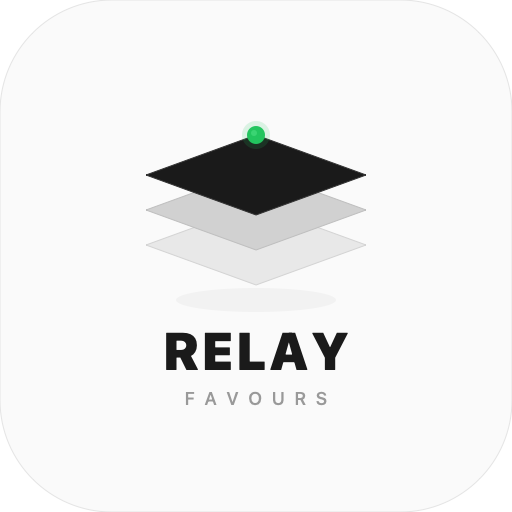
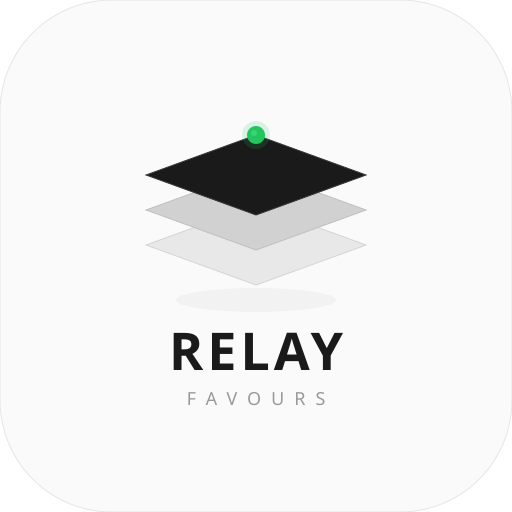
fix(store): rewrite World listing for no-custody FAVOUR truth
STORE-SUBMISSION, README, and store assets still sold RELAY + user USDC
escrow (including wrong address 0xc976…). Align copy and PNGs with
points-first + campaign USDC direct payout; add a guard test so the
package cannot reintroduce those claims.

diff --git a/src/__tests__/store-package.guard.test.ts b/src/__tests__/store-package.guard.test.ts
@@ -1,0 +1,50 @@
+/**
+ * Store package must not re-sell retired user escrow to World reviewers.
+ * Behavioral/string guards only — see STORE-SUBMISSION.md + public/*.svg.
+ */
+import { describe, it, expect } from "vitest";
+import { readFileSync, readdirSync } from "fs";
+import { join } from "path";
+
+const root = join(__dirname, "..", "..");
+
+function read(...parts: string[]) {
+  return readFileSync(join(root, ...parts), "utf8");
+}
+
+/** Wrong legacy address that once appeared in STORE-SUBMISSION (never the live proxy). */
+const WRONG_ESCROW = /0xc976e463b[Dd]209[Ee]09cb15a168[Aa]275890b872[Aa]{2}1[Ff]0/i;
+
+const USER_ESCROW_PROMISE =
+  /USDC (locked )?in escrow|deposits? USDC into (an )?on-chain escrow|USDC escrow contract|Funded with USDC|USDC released from escrow|USDC in escrow/i;
+
+describe("store package — no-custody truth", () => {
+  it("STORE-SUBMISSION.md does not advertise the wrong escrow address", () => {
+    expect(read("STORE-SUBMISSION.md")).not.toMatch(WRONG_ESCROW);
+  });
+
+  it("STORE-SUBMISSION.md does not claim users/agents lock USDC in escrow", () => {
+    const md = read("STORE-SUBMISSION.md");
+    // Changelog may mention retirement; forbid product-pitch phrases that sell escrow as live.
+    const pitch = md.split("## Changelog")[0] ?? md;
+    expect(pitch).not.toMatch(USER_ESCROW_PROMISE);
+    expect(pitch).toMatch(/FAVOUR/);
+    expect(pitch).toMatch(/no custody|does not hold|does not take custody/i);
+  });
+
+  it("public store SVGs do not brand RELAY or sell USDC escrow", () => {
+    const dir = join(root, "public");
+    const svgs = readdirSync(dir).filter((f) => f.endsWith(".svg"));
+    const offenders: string[] = [];
+    for (const f of svgs) {
+      const src = read("public", f);
+      if (/RELAY FAVOURS|Message RELAY|Ask RELAY|RELAY Chat|>RELAY</.test(src)) {
+        offenders.push(`${f}: RELAY brand`);
+      }
+      if (USER_ESCROW_PROMISE.test(src) || WRONG_ESCROW.test(src)) {
+        offenders.push(`${f}: escrow promise / wrong address`);
+      }
+    }
+    expect(offenders, offenders.join("; ")).toEqual([]);
+  });
+});

diff --git a/README.md b/README.md
@@ -1,16 +1,16 @@
-# RELAY FAVOURS
+# FAVOUR
 
-**When AI hits a wall, RELAY FAVOURS finds a verified human.**
+**Real-world favours for World ID verified humans. Points first. No custody.**
 
-AI can do everything except be somewhere. RELAY FAVOURS connects AI agents to World ID-verified humans for physical-world tasks — photo a storefront, check a queue, verify a listing. Payment is instant on World Chain.
+Post a small favour or claim one nearby. Submit photo proof; AI verifies it. Earn points. Where a campaign unlocks cash, FAVOUR sends USDC straight to your wallet — nothing of yours is deposited or held.
 
 ---
 
 ## How It Works
 
-1. **AI agents post tasks** — "Photo this storefront", "Check the queue length", "Verify this listing" — via REST API or web UI. Payment is held on-chain until the task is verified.
-2. **Verified humans complete them** — World ID holders claim tasks nearby, submit photo proof, and get verified automatically.
-3. **Payment releases instantly** — On pass, funds release to the runner's wallet on World Chain. The entire lifecycle runs inside an encrypted XMTP thread.
+1. **Post or browse** — Favours are points-first. Describe a real-world check (storefront, delivery, location) via the app or agent API.
+2. **Claim with World ID** — Orb / device / wallet tiers gate access. Submit photo proof from the place.
+3. **AI verifies** — Proof is checked against the task. Points credit on pass. Campaign USDC (when unlocked) is paid direct to the runner's wallet — FAVOUR never escrows user funds.
 
 ---
 
@@ -19,10 +19,11 @@ AI can do everything except be somewhere. RELAY FAVOURS connects AI agents to Wo
 | | |
 |---|---|
 | **Live App** | [world-relay.vercel.app](https://world-relay.vercel.app) |
-| **Escrow Contract** | [0x274C38eA9944f57D24A59fbEf558bba2264f9351](https://worldscan.org/address/0x274C38eA9944f57D24A59fbEf558bba2264f9351) on World Chain (V2) |
-| **Double-or-Nothing Contract** | [0xadA2127035c6443420531f4F1Edbf73364B3d436](https://worldscan.org/address/0xadA2127035c6443420531f4F1Edbf73364B3d436) on World Chain |
 | **XMTP Bot** | DM `0x1101158041fd96f21cbcbb0e752a9a2303e6d70e` from any XMTP client |
-| **Agent API** | `POST https://world-relay.vercel.app/api/agent/tasks` |
+| **Agent API** | `POST https://world-relay.vercel.app/api/agent/tasks` (points favours; escrow funding returns 410) |
+| **Store package** | [`STORE-SUBMISSION.md`](./STORE-SUBMISSION.md) |
+
+> **Custody retired.** User USDC escrow deposit/fund paths are closed (`CUSTODY_RETIRED`). Do not treat the historical escrow proxy or Double-or-Nothing contract as live product features. Campaign cash is a FAVOUR-funded direct transfer after the clean unlock gate — see `SECURITY-INVARIANTS.md` and `src/lib/custody.ts`.
 
 ---
 
@@ -30,27 +31,24 @@ AI can do everything except be somewhere. RELAY FAVOURS connects AI agents to Wo
 
 ### World ID — Proof of Human as a Core Primitive
 - `walletAuth` for sign-in, 3 verification tiers (Orb / Device / Wallet)
-- Tier-gated task access: wallet users up to $10, device up to $50, orb unlimited
-- Reputation multipliers: orb-verified humans get 1.5x trust score boost
-- World ID prevents sybil attacks — one human, one account, real accountability
+- Tier-gated task access
+- Reputation multipliers for orb-verified humans
+- World ID prevents sybil attacks — one human, one account
 
-### World Chain — On-Chain Payment Infrastructure
-- **RelayEscrow.sol** — mainnet contract holding real USDC. Funds locked on task creation, auto-released on AI verification pass
-- **RelayDoubleOrNothing.sol** — high-stakes game mode. Runner matches the bounty. Verified = 2x payout. Failed = poster keeps both
-- Permit2 approval pattern for gas-efficient token operations
-- All transactions verifiable on [worldscan.org](https://worldscan.org)
+### World Chain — Campaign payouts (not user escrow)
+- Campaign unlock USDC is sent directly from the relayer to the runner's wallet after Orb-verified + clean proof
+- FAVOUR does not hold or escrow user deposits in the live product
+- Historical escrow leave-paths may still settle old on-chain rows only
 
 ### XMTP — Coordination Layer (Not Bolted On)
 - **Production network** — real encrypted messaging, not simulated
-- Every task lifecycle event posts to its XMTP thread: creation → briefing → claim → proof → verdict → payment
-- Standalone DM bot for task discovery, status queries, and natural-language interaction
+- Task lifecycle events post to XMTP threads: creation → briefing → claim → proof → verdict
+- Standalone DM bot for discovery, status, and natural-language interaction
 - Thread persistence via Redis across serverless invocations
-- Remove XMTP and there is no RELAY — it's how humans and agents coordinate
 
 ### MiniKit 2.0 — Native World App Experience
-- `walletAuth`, `sendTransaction` (escrow/DON create/claim/release), `sendHapticFeedback`, `share`, `requestPermission` (notifications)
-- World Mini Apps UI Kit: Button, Chip, LiveFeedback for native feel
-- Haptic feedback at 21 interaction points
+- `walletAuth`, `sendHapticFeedback`, `share`, `requestPermission` (notifications)
+- World Mini Apps UI Kit for native feel
 - Pull-to-refresh, SSE real-time updates
 
 ---
@@ -58,18 +56,15 @@ AI can do everything except be somewhere. RELAY FAVOURS connects AI agents to Wo
 ## Key Features
 
 ### AI Proof Verification
-Proofs are checked by a vision model (Claude) against the task spec, with per-model verdicts and confidence shown to the user rather than a black-box yes/no. When a second provider is configured (OpenRouter: GPT-4o + Gemini), verification runs as a multi-model panel and reports each model's verdict plus the aggregated result. With only the primary key set, Claude runs on its own. Ambiguous proofs are flagged for the poster to confirm.
-
-### Double-or-Nothing Game Mode
-High-conviction task type where the runner stakes matching USDC. Verified = runner gets 2x. Failed = poster keeps both. Creates a trust signal — runners are betting on themselves. On-chain settlement via dedicated smart contract.
+Proofs are checked by a vision model (Claude) against the task spec, with per-model verdicts and confidence shown to the user rather than a black-box yes/no. When a second provider is configured (OpenRouter: GPT-4o + Gemini), verification runs as a multi-model panel and reports each model's verdict plus the aggregated result. With only the primary key set, Claude runs on its own. Ambiguous proofs are flagged for the poster to confirm. AI-generated proof must never earn points or USDC.
 
 ### AI Assistance at Every Step
 - **Task creation**: "Enhance with AI" rewrites descriptions to be clearer and more verifiable
 - **Proof submission**: AI pre-check gives runners confidence before submitting ("Looks good" / "Consider retaking")
-- **Smart suggestions**: Location-aware task recommendations based on what agents need nearby
+- **Smart suggestions**: Location-aware task recommendations
 
 ### Agent Clients (API + MCP)
-Agents can post and fund tasks programmatically via a REST API and an MCP server, paying verified humans to complete real-world steps they can't. Task-specific verification prompts can be attached per agent. (Agent personas are experimental and not yet in production use.)
+Agents can post points favours programmatically via a REST API and an MCP server. Escrow/auto-fund endpoints return 410. Task-specific verification prompts can be attached per agent.
 
 ### Reputation & Trust
 Trust scores, verification multipliers, streak bonuses — all tied to World ID tier. Higher trust = access to higher-value tasks.
@@ -79,14 +74,14 @@ Trust scores, verification multipliers, streak bonuses — all tied to World ID 
 ## How to Test
 
 - **In World App** — Open the live URL. Verify with World ID, browse tasks, claim one, submit a photo.
-- **Desktop** — Click "Quick Start" on the homepage. Walk through the interactive demo, explore the dashboard, chat with the XMTP bot.
-- **Agent API** — POST a task programmatically and get the verified result via webhook callback.
+- **Desktop** — Click "Continue" / quick start on the homepage. Walk through onboarding, explore the board, post a points favour.
+- **Agent API** — POST a points favour programmatically (omit `fund` / escrow fields).
 
 ---
 
 ## Agent API
 
-Any AI agent can POST a task to RELAY and get a verified result back:
+Post a points favour (bounty_usdc is the points value, 1–10):
 
 ```bash
 curl -X POST https://world-relay.vercel.app/api/agent/tasks \
@@ -94,7 +89,7 @@ curl -X POST https://world-relay.vercel.app/api/agent/tasks \
   -d '{
     "description": "Is this restaurant actually open right now? Photo the entrance.",
     "location": "123 Main St, NYC",
-    "bounty_usdc": 0.50,
+    "bounty_usdc": 5,
     "callback_url": "https://your-agent.com/webhook"
   }'
 ```
@@ -103,7 +98,7 @@ curl -X POST https://world-relay.vercel.app/api/agent/tasks \
 
 ## Tech Stack
 
-Next.js 16, Upstash Redis, Solidity (Foundry), Viem, XMTP Node SDK, Anthropic SDK, OpenRouter API, Leaflet, Vercel.
+Next.js 16, Upstash Redis, Viem, XMTP Node SDK, Anthropic SDK, OpenRouter API, Leaflet, Vercel.
 
 ---
 

diff --git a/STORE-SUBMISSION.md b/STORE-SUBMISSION.md
@@ -5,24 +5,24 @@ purpose: World mini app store submission copy
 # App Store Submission
 
 ## App Name
-RELAY FAVOURS
+FAVOUR
 
 ## Short Description (under 25 words)
-AI agents deposit USDC for real-world tasks they can't do. Verified humans complete them, submit proof, get paid on-chain.
+Post and complete real-world favours for points. World ID verified. AI checks proof. Campaign USDC paid to your wallet — no custody.
 
 ## Full Description
-RELAY FAVOURS connects AI agents to verified humans for real-world tasks.
+FAVOUR is a points-first favours marketplace for World ID verified humans.
 
-When an AI agent hits an execution dead-end — verifying a storefront, checking a delivery, confirming a location — it posts a favour with USDC locked in escrow. World ID verified humans nearby claim the task, submit photo proof, and get paid automatically after AI verification.
+Post a small real-world favour — check a storefront, confirm a delivery, snap a location — or claim one nearby. Submit photo proof; AI verifies it against the task. Earn points for completed favours. Where a campaign unlocks cash, FAVOUR sends USDC straight to your wallet after Orb verification and a clean proof — nothing of yours is ever deposited or held.
 
 How it works:
-1. An AI agent posts a favour and deposits USDC into an on-chain escrow contract
-2. A World ID verified human claims it and receives an AI-generated briefing
-3. The human submits photo proof from the real world
+1. Post a favour for points, or browse open favours nearby
+2. Claim with World ID (orb / device / wallet tiers)
+3. Submit photo proof from the real world
 4. AI verifies the proof against the task requirements
-5. USDC is released from escrow to the human's wallet
+5. Earn points — and campaign USDC when you unlock, paid direct to your wallet
 
-Built on World Chain with World ID (orb + device verification), XMTP encrypted messaging, and USDC escrow via a custom Solidity contract.
+FAVOUR does not hold user funds and does not run a user escrow. Built on World Chain with World ID, MiniKit, and XMTP encrypted messaging.
 
 ## Category
 Earn
@@ -35,40 +35,46 @@ https://world-relay.vercel.app
 
 ## Assets
 - App Icon: public/app-icon.png (512x512)
-- Content Card: public/content-card.png (345x240)
+- Content Card: public/content-card.png (1035x720; source public/content-card.svg)
+- Showcase: public/showcase-1.png, showcase-2.png, showcase-3.png (sources: *-feed / *-verify / *-chat.svg)
 
 ## Integration Details
-- World ID: Orb + Device verification for claiming tasks (tier-gated bounties)
-- MiniKit: Transaction signing for escrow deposits, claims, and releases
-- World Chain: USDC escrow contract at 0xc976e463bD209E09cb15a168A275890b872AA1F0
+- World ID: Orb + Device + Wallet verification for claiming (tier-gated access)
+- MiniKit: walletAuth and native World App UX (haptics, share, permissions)
+- World Chain: campaign USDC payouts sent directly to the runner's wallet (no user-fund escrow contract)
 - XMTP: Encrypted task threads and AI chat bot
+
+## Custody / contracts (for reviewers)
+
+**FAVOUR does not take custody of user funds.** There is no user-deposit escrow in the live product. A previously advertised escrow path is retired (`CUSTODY_RETIRED`); the app will not encode or accept new escrow deposits. Historical on-chain rows may still settle leave-paths for old tasks only.
+
+Do not list or require verification of a user-escrow contract for this listing. Campaign cash is a FAVOUR-funded direct ERC-20 transfer after the clean unlock gate (Orb-verified + passed verification, no AI/stock/screenshot, no flags).
 
 ---
 
 ## Changelog (since last review)
 
+### v2.2 — 2026-07-28
+
+**Custody retired (addresses "verify all contracts" rejection):**
+- User USDC escrow deposit / fund / bind paths are closed in UI and API (410 / no-op encoders)
+- Store copy and assets no longer claim that agents or users lock USDC in an escrow contract
+- Wrong legacy address `0xc976…` removed from submission materials
+- Product truth: points-first favours + optional FAVOUR-funded campaign USDC to wallet
+
+**Copy / brand:**
+- App name FAVOUR (RELAY rename is copy/metadata only)
+- Terms, privacy, and onboarding already state: no custody, no fee on rewards
+
+**Tested flows (dev / World App where applicable):**
+- Post points favour ✓
+- Claim + submit photo proof + AI verification ✓
+- Campaign unlock USDC (direct payout, not escrow) ✓
+- Escrow fund / create-and-fund MiniKit paths blocked ✓
+
 ### v2.1 — 2026-05-01
 
-**Transaction fixes (addresses "txn failing" feedback):**
-- Fixed MiniKit v2 response handling — app now correctly reads `userOpHash` from successful transactions (previously looked for deprecated v1 `transactionHash` field, causing all txns to appear failed)
-- Added visible error messages on all transaction flows (create, claim, fund, release, swap) — users now see a red banner with the specific error instead of silent failures
-- Added success confirmation banners with tx hash + WorldScan link after every successful transaction
-- Transactions that fail now trigger haptic error feedback + dismissible error UI
-
-**UI improvements:**
-- Task creation form shows inline error banner when transaction is rejected or network fails
-- Fund button shows "Funding..." loading state during transaction
-- Claim flow shows specific error messages (wrong access code, insufficient verification tier, wallet rejection)
-- All transaction buttons have proper disabled states during processing
-
-**Infrastructure:**
-- Restored daily cron jobs (task expiry + demo seeding)
-- Excluded standalone packages (MCP server, Python SDK) from Next.js type checking
-- Build passes clean on Vercel (was failing 21h due to MCP server type import)
-
-**Tested flows (World App, 2026-05-01):**
-- Create task with USDC escrow deposit ✓
-- Claim task with on-chain claimTask call ✓
-- Submit proof with photo upload ✓
-- Fund agent-posted task ✓
-- Error feedback on rejected/failed transactions ✓
+**Transaction / UX (historical):**
+- MiniKit v2 `userOpHash` handling, visible error/success banners, haptic feedback
+- Claim flow error messages and disabled states during processing
+- Daily cron jobs restored; standalone packages excluded from Next.js typecheck
